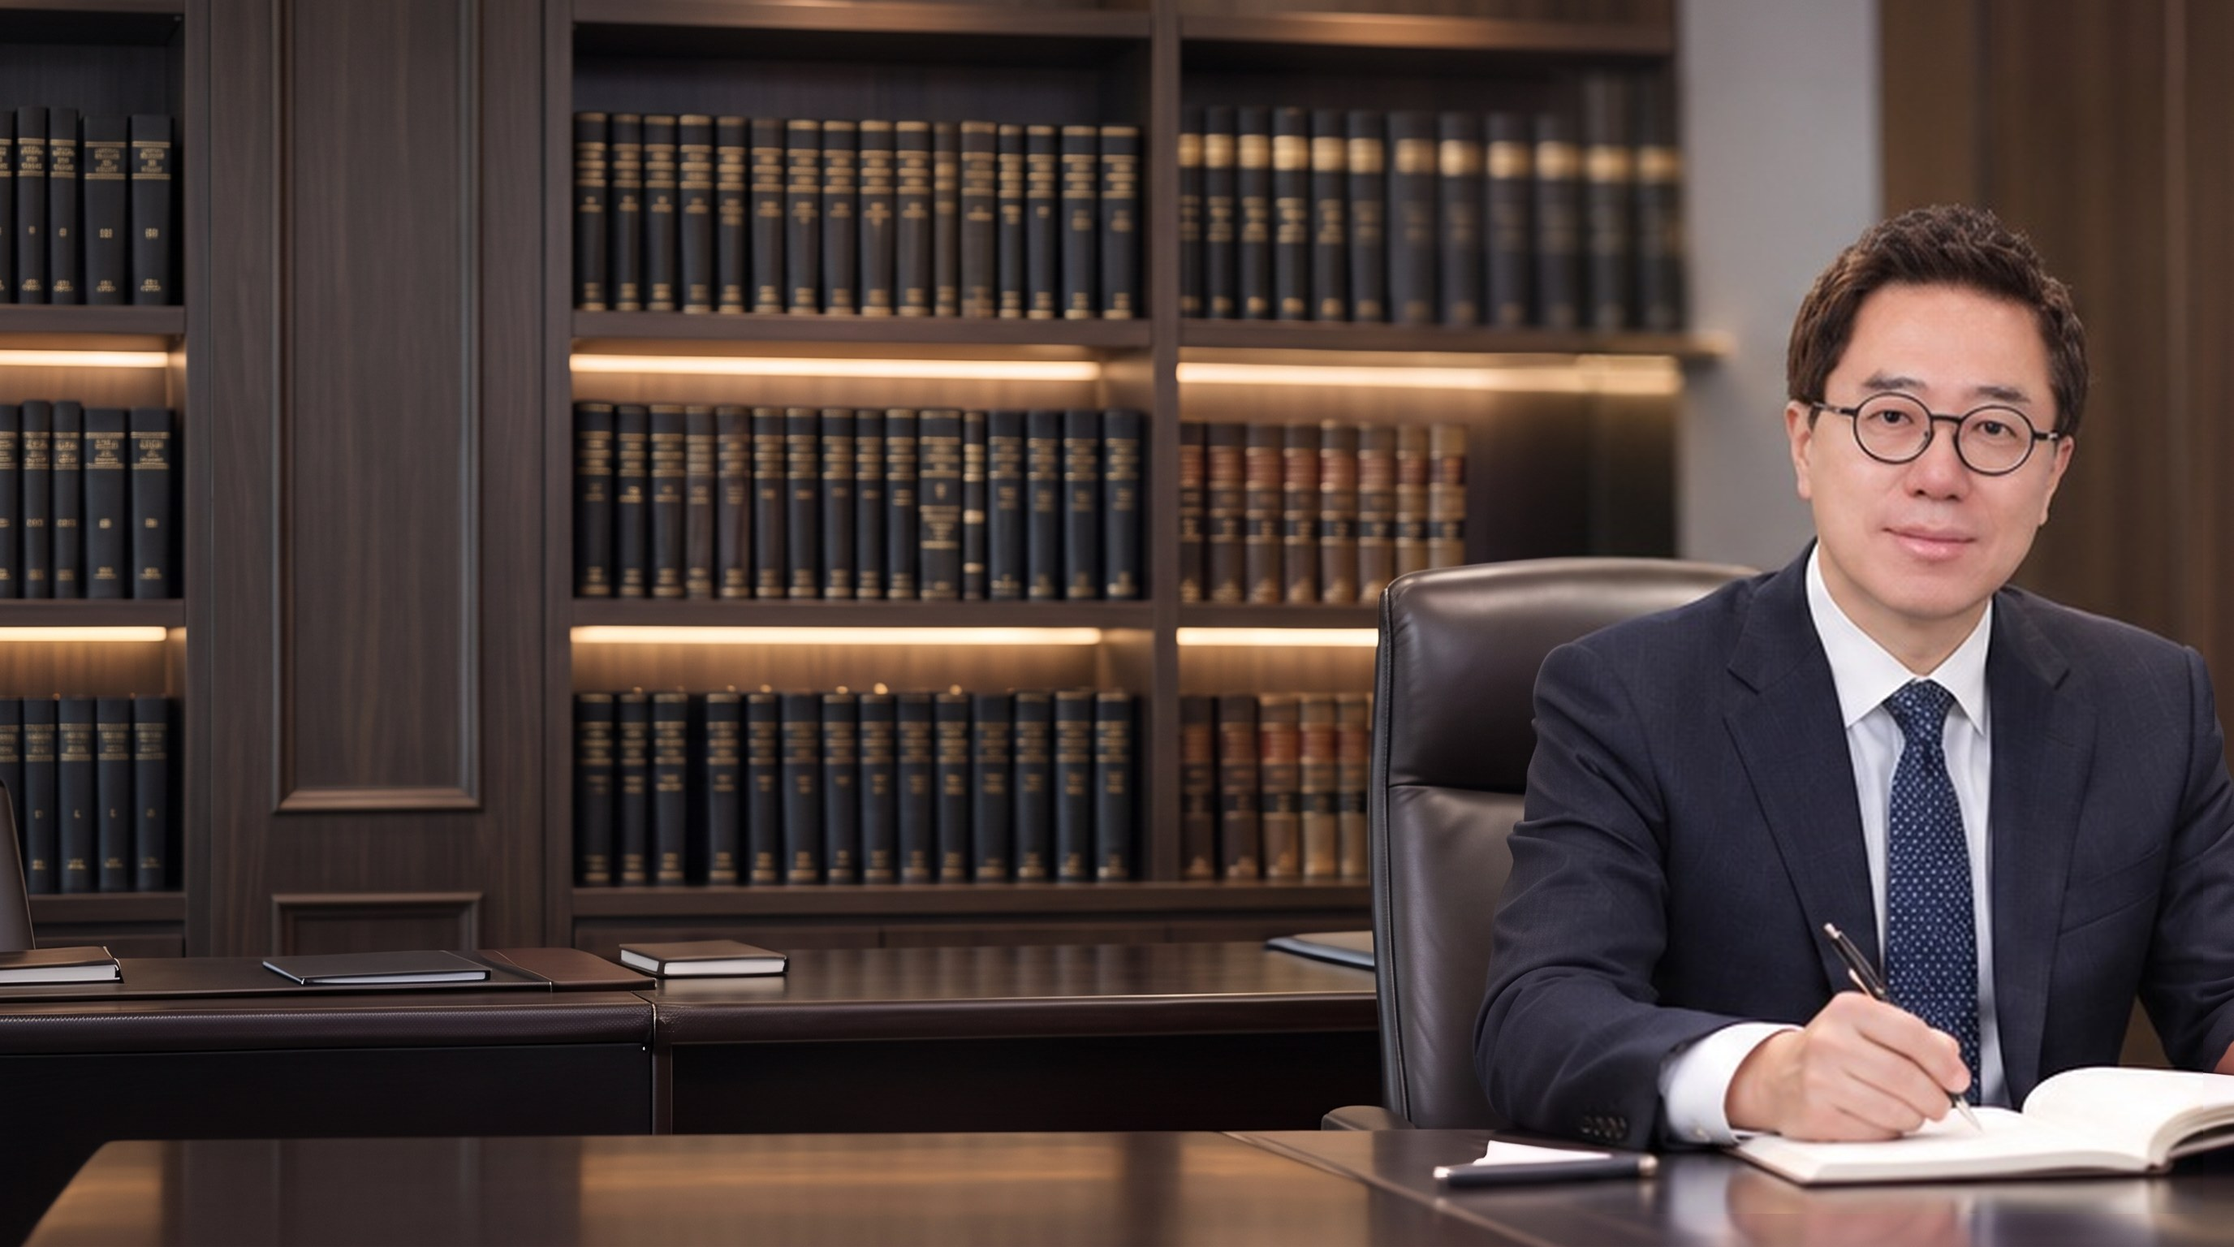
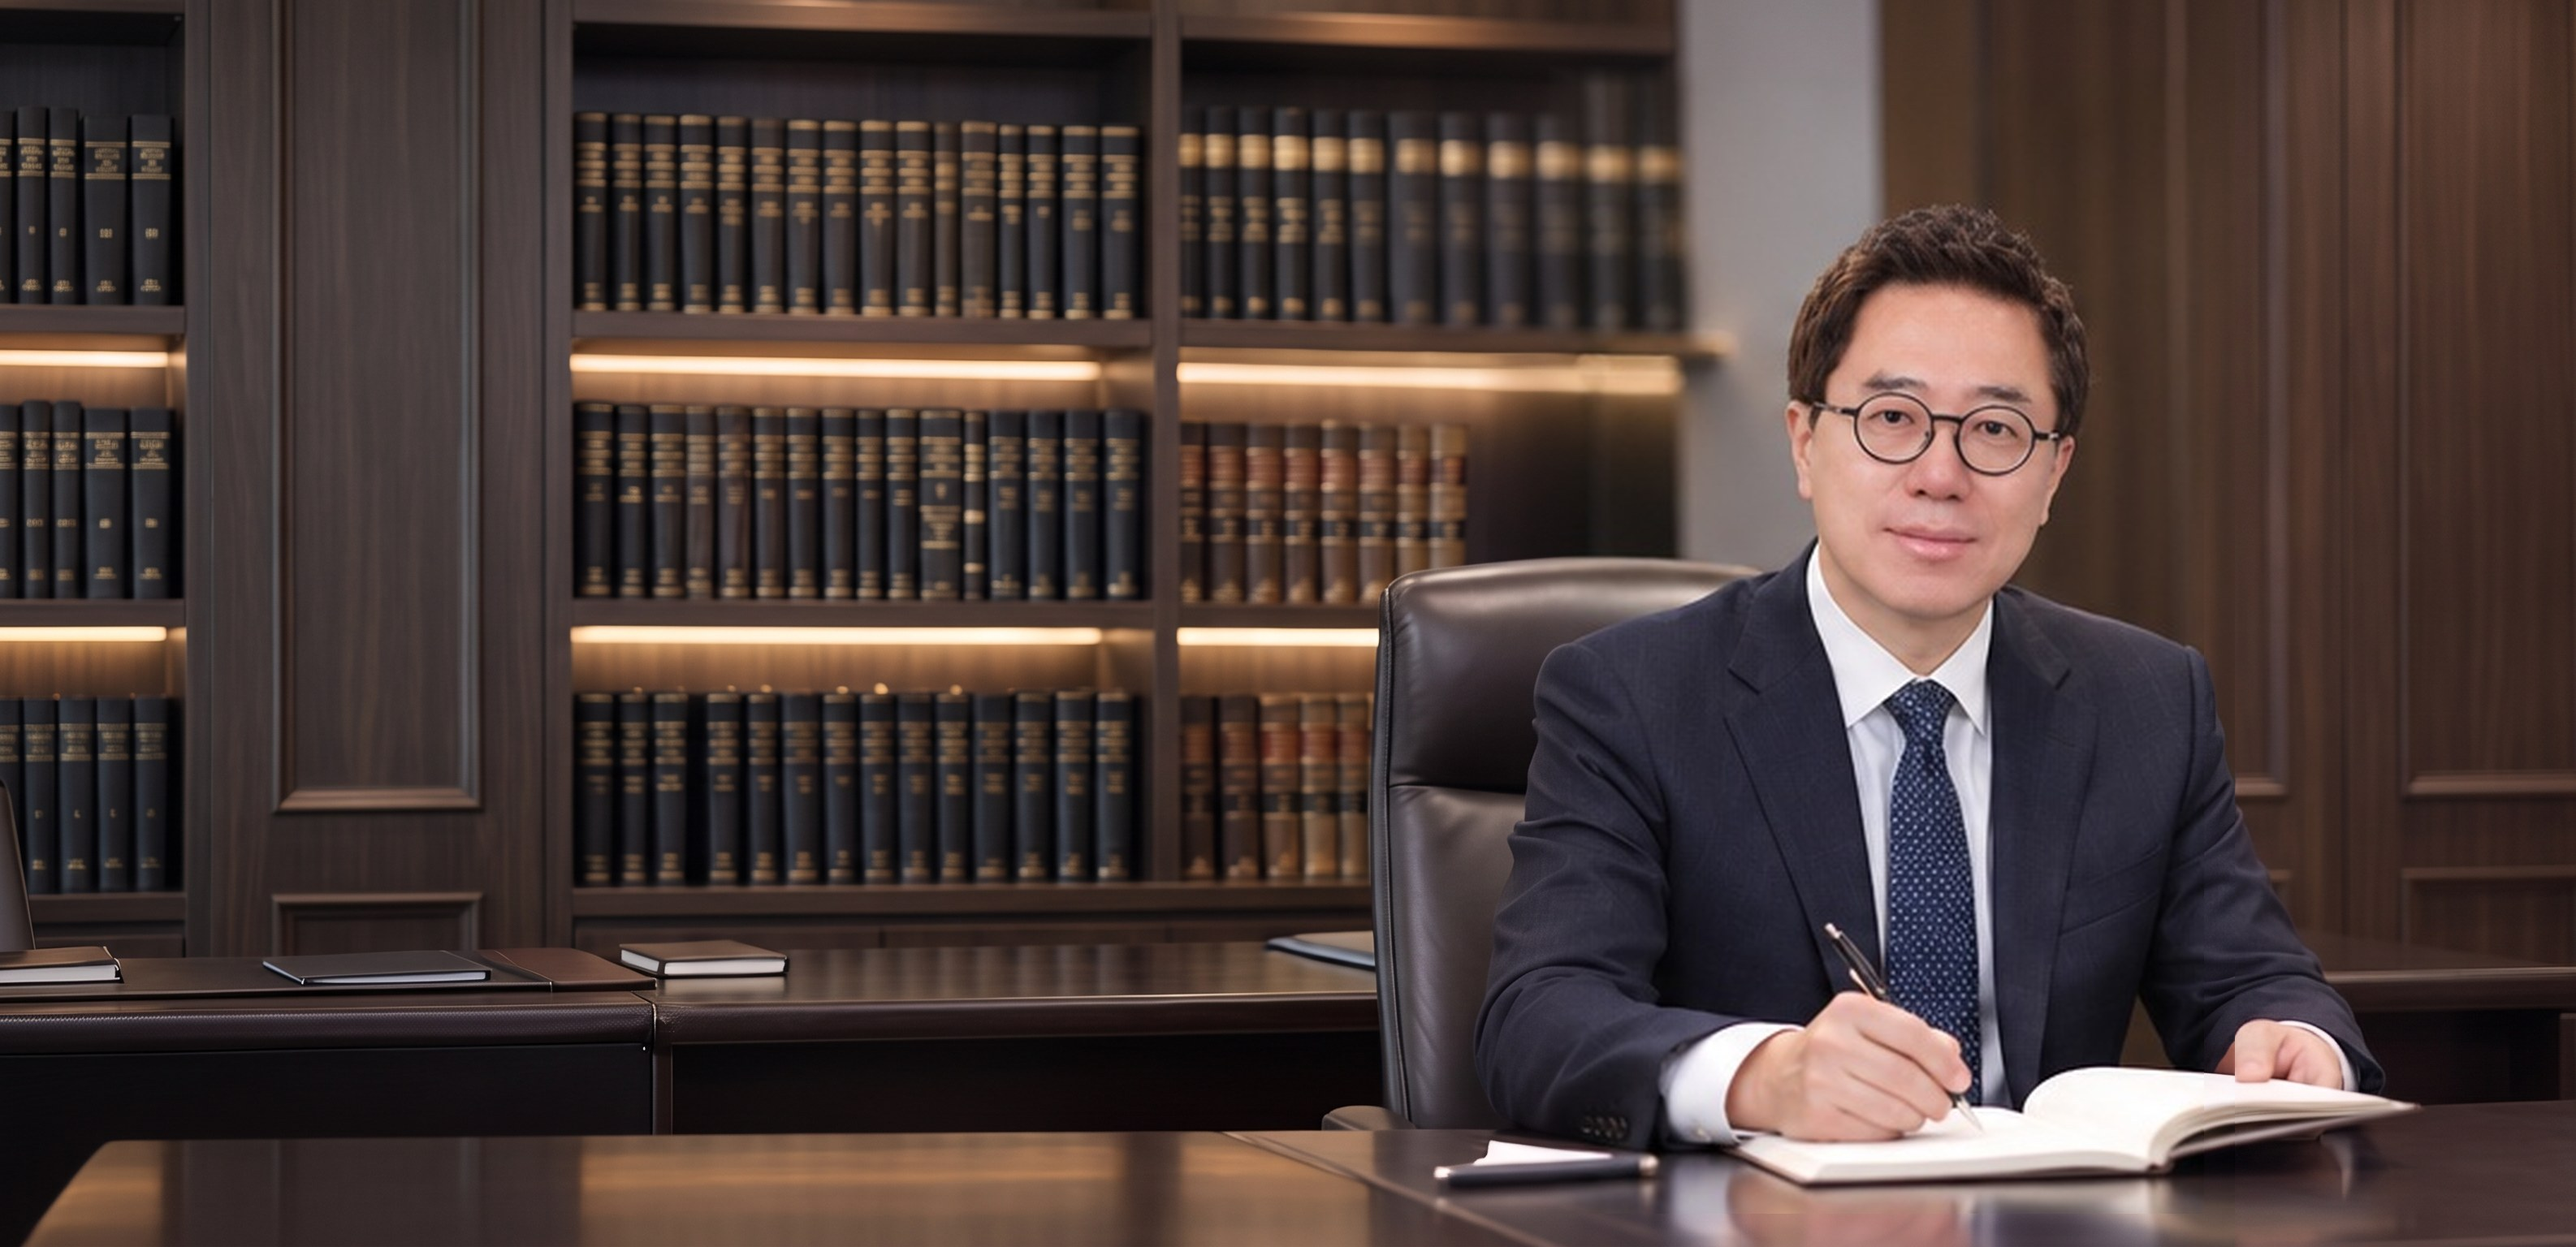
Add room to the right of the lawyer in the hero.
Extend the wall and desk so the shoulder and notebook stay inside the frame on wide and mobile screens.

diff --git a/sosong/index.html b/sosong/index.html
@@ -35,7 +35,7 @@ header{position:sticky;top:0;z-index:20;background:#fff;border-bottom:1px solid 
 .btn:focus-visible,a:focus-visible,button:focus-visible,input:focus-visible,select:focus-visible,textarea:focus-visible,summary:focus-visible{outline:3px solid var(--gold);outline-offset:3px}
 #areas,#thanks,#steps,#faq,#consult{scroll-margin-top:88px}
 .hero{position:relative;color:#121816;background:#1c1916;overflow:hidden;min-height:calc(100vh - 74px)}
-.hero-shot{position:absolute;inset:0;width:100%;height:100%;object-fit:cover;object-position:center center;z-index:0;display:block}
+.hero-shot{position:absolute;inset:0;width:100%;height:100%;object-fit:cover;object-position:right center;z-index:0;display:block}
 .hero::after{content:"";position:absolute;inset:0;z-index:1;pointer-events:none;background:linear-gradient(90deg,rgba(244,239,230,.78) 0%,rgba(244,239,230,.55) 16%,rgba(244,239,230,.22) 32%,rgba(244,239,230,0) 50%)}
 .hero-in{position:relative;z-index:2;width:min(1180px,calc(100% - 48px));margin:0 auto;min-height:calc(100vh - 74px);display:flex;align-items:center}
 .hero-copy{display:flex;flex-direction:column;justify-content:center;width:max-content;max-width:min(480px,40vw);box-sizing:border-box;background:transparent;padding:8px 0;border:0}
@@ -212,7 +212,7 @@ footer p{margin:10px 0 0}
         <p class="hero-cap"><span>광고책임변호사</span>유성우 변호사</p>
       </div>
     </div>
-    <img class="hero-shot" src="hero-desk.jpg" alt="유성우 변호사" width="2752" height="1536">
+    <img class="hero-shot" src="hero-desk.jpg" alt="유성우 변호사" width="3172" height="1536">
   </section>
 
   <section class="areas" id="areas" aria-labelledby="areah">
